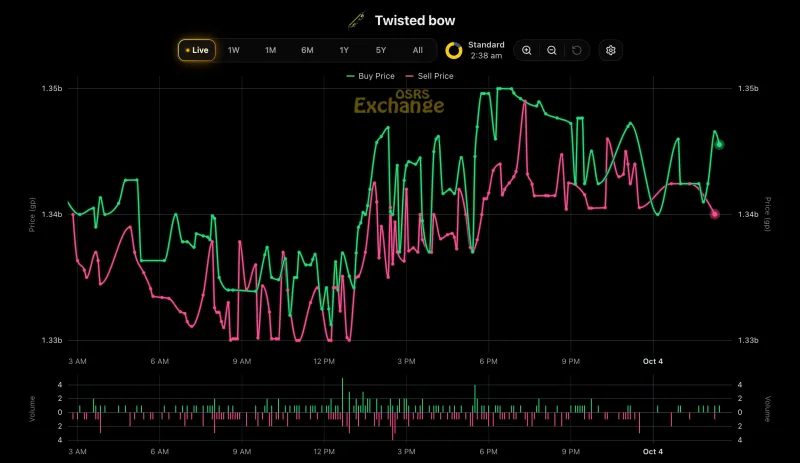
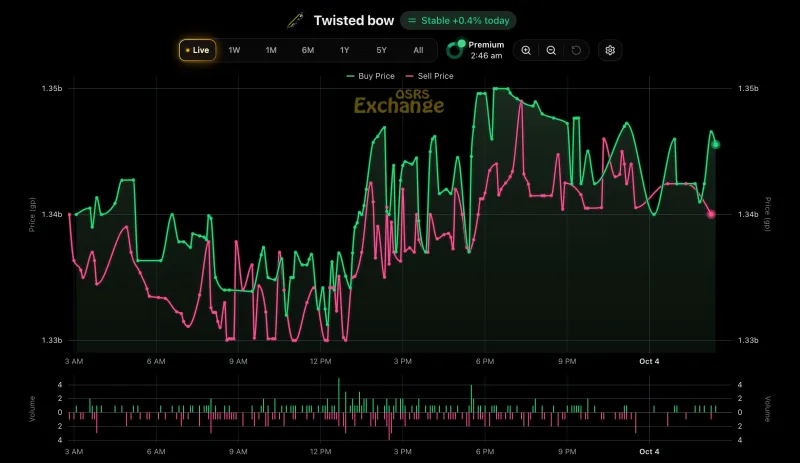
home: the OSRS and RS3 charts use the premium trend fills, each a different one: the Twisted bow's live buy and sell trend (Stable +0.4% today) and the Elder rune bar's five-year market price trend (Climbing +10.0% over 5 years); alt text describes them

diff --git a/src/site.ts b/src/site.ts
@@ -75,7 +75,7 @@ export const products: Product[] = [
       height: 925,
       frame: 'browser',
       url: 'https://www.osrs.exchange/item/twisted-bow',
-      alt: 'OSRS Exchange’s live chart for the Twisted bow: buy and sell prices around 1.34 billion gp over the last day, with trade volume underneath.',
+      alt: 'OSRS Exchange’s live chart for the Twisted bow with trend fill: buy and sell prices around 1.34 billion gp over the last day, marked Stable, up 0.4% today, with trade volume underneath.',
     },
   },
   {
@@ -96,7 +96,7 @@ export const products: Product[] = [
       height: 925,
       frame: 'browser',
       url: 'https://www.rs3.exchange/item/elder-rune-bar',
-      alt: 'RS3 Exchange’s five-year chart for the Elder rune bar: from about 12k gp in 2022 to a peak near 26k in 2024, back to about 14k now.',
+      alt: 'RS3 Exchange’s five-year market price trend for the Elder rune bar: from about 12k gp in 2022 to a peak near 26k in 2024, back to about 14k now, marked Climbing, up 10% over five years.',
     },
   },
 ];
